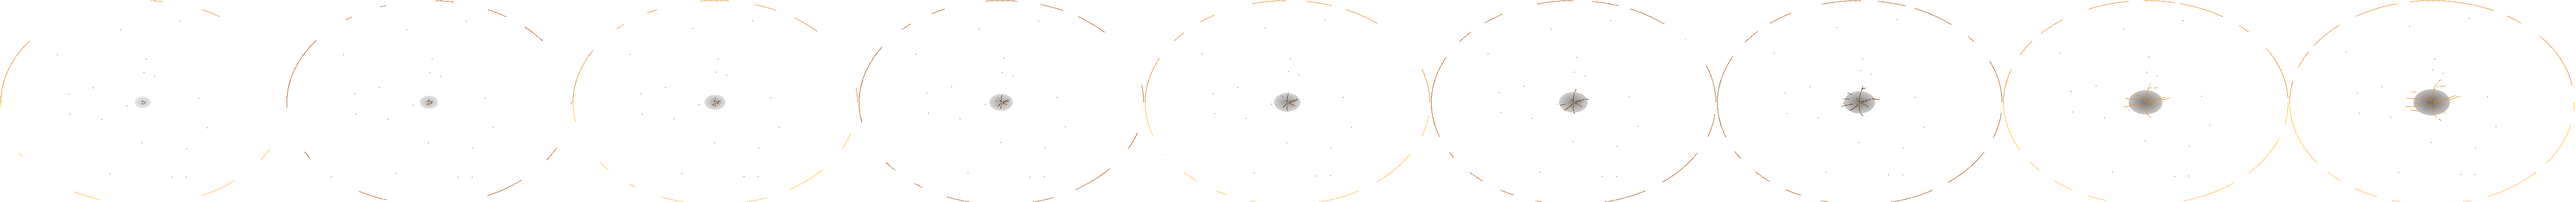
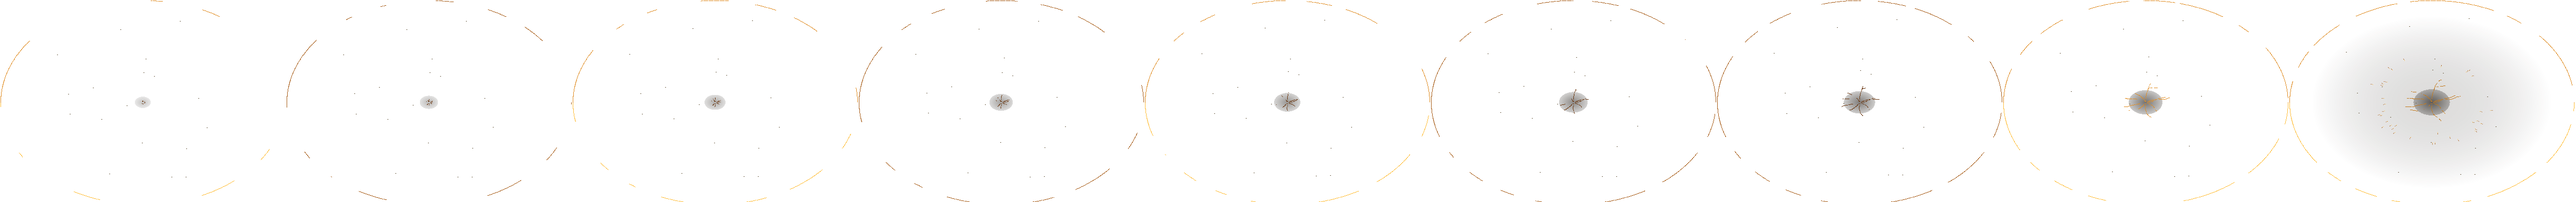
推进之王终结技按 ult_brief 调整：预备 2 拍、小星芒亮核、8 格厚冲击环 + 地面一闪、粒子云、地面块 / 尘墙按冲击环到达时刻起、怪物崩解（击杀碎屑 + 自身色像素喷散）；音效换成 Sonniss 录音（不用原作音源，gen_sfx siege() 改写，未 --apply）；隐形圆保住砸地音效触发；docs/264 §10

Changed region(s): [[0.902, 0.2805, 0.9953, 0.7481]]

diff --git a/tools/pixelfx_fx/melee/ak-siege-ult-pp.js b/tools/pixelfx_fx/melee/ak-siege-ult-pp.js
@@ -59,6 +59,22 @@ function warn(p, t, o, C, ACC, DU) {
     if (nz(f * 30 + x, +o.seed + 23) < 0.25) continue;
     p.px(Math.round(x), Math.round(y * SY), k > 0.7 && blink ? C[n - 4] : C[n - 6]);
   }
+  // 预备（落地前最后 2 拍，ult_brief §3）：判定圈内压暗 + 金色光点从 0.55–0.8 R 往中心吸，越近越亮
+  const pr = clamp((t - 0.467) / 0.133);
+  if (pr > 0) {
+    const rd = R * 0.85;
+    p.shade(-rd, -rd * SY, rd, rd * SY, (x, y, out) => {
+      const d = Math.hypot(x / rd, y / (rd * SY));
+      if (d > 1) return;
+      p.blend(x, y, DU[0], 0.3 * pr * (1 - d * d));
+    });
+    for (let i = 0; i < 36; i++) {
+      const a = TAU * nz(i * 1.9, +o.seed + 41), r0 = R * (0.55 + 0.25 * nz(i * 2.7, +o.seed + 43));
+      const r = r0 * (1 - 0.85 * pr), X = Math.cos(a) * r, Y = Math.sin(a) * r * SY - 4;
+      const c = pr > 0.6 ? (i % 3 === 0 ? WHITE : C[n - 2]) : C[n - 3];
+      for (let s2 = 0; s2 < 3; s2++) p.px(Math.round(X + Math.cos(a) * s2 * 2), Math.round(Y + Math.sin(a) * s2 * 2 * SY), s2 === 0 ? c : C[n - 5]);
+    }
+  }
   for (let i = 0; i < 18; i++) {
     const a = TAU * nz(i * 2.3, +o.seed + 25), r = R * (0.1 + 0.85 * nz(i * 3.1, +o.seed + 27));
     const ph = (t * 7.5 + nz(i, +o.seed + 29) * 3) % 1;
@@ -90,15 +106,82 @@ function charge(p, t, o, C, ACC) {
 }
 
 // ---------------------------------------------------------------- 砸落（立起层）
+// 冲击环到半径 r 的时刻（游戏秒）：同 smashGd 的 shock()，0.23 秒（3.5 拍）从 0.3 R 先快后慢推到 R
+function shockAt(R, r) {
+  const k = clamp((r / R - 0.3) / 0.7);
+  return 0.23 * (1 - Math.sqrt(1 - k));
+}
+
+// 亮核：中心一小团实心白芯 + 四长四短星芒，亮 2 拍（体量靠冲击环和粒子云撑，不画整块平涂的大圆 / 椭圆）
+function core(p, t, C, ACC) {
+  const n = C.length;
+  if (t >= 0.134) return;
+  const f2 = t >= 0.067, z = 8, r0 = f2 ? 7 : 10;
+  for (let y = -r0; y <= r0; y++) for (let x = -r0 * 1.6; x <= r0 * 1.6; x++) {
+    const d = Math.hypot(x / (r0 * 1.6), y / r0);
+    if (d > 1 || (d > 0.75 && ((Math.round(x) + y) & 1))) continue;
+    p.px(Math.round(x), Math.round(y - z), d < 0.5 ? WHITE : d < 0.8 ? ACC : C[n - 3]);
+  }
+  const L = f2 ? [34, 16] : [48, 22];
+  for (let q = 0; q < 8; q++) {
+    const a = q * Math.PI / 4 + 0.1, len = q % 2 ? L[1] : L[0];
+    for (let s2 = r0; s2 < len; s2++) {
+      const w = s2 < len * 0.5 ? 1 : 0;
+      for (let k = -w; k <= w; k++) p.px(Math.round(Math.cos(a) * s2 - Math.sin(a) * k), Math.round(Math.sin(a) * s2 * 0.72 + Math.cos(a) * k - z), s2 < len * 0.6 ? WHITE : C[n - 2]);
+    }
+  }
+}
+
+// 粒子云（ult_brief §5）：1–2 格的金白闪点，0.35 秒内往外炸开铺满 0.6 R 的圆，之后逐拍闪烁、往上漂、越剩越少，1.2 秒散完
+function cloud(p, t, o, C, ACC, R, N, sd, t0) {
+  const SY = +o.SY, n = C.length, u = t - (t0 || 0);
+  if (u <= 0 || u > 1.2) return;
+  const f = Math.floor(t * 15);
+  for (let i = 0; i < N; i++) {
+    const a = TAU * nz(i * 1.37, sd + 1), rr = R * Math.sqrt(nz(i * 2.11, sd + 3));
+    const g = ease.outCubic(clamp(u / 0.35)), r = rr * g;
+    const live = 1 - smooth(0.35, 1.2, u);
+    if (nz(i * 3.3, sd + 5) > live) continue;
+    if (u > 0.3 && ((i + f) % 3 === 0)) continue;                         // 闪烁：逐拍有一部分灭
+    const z = 4 + 30 * u * nz(i * 4.7, sd + 7);
+    const X = Math.round(Math.cos(a) * r), Y = Math.round(Math.sin(a) * r * SY - z);
+    const c = u < 0.134 ? WHITE : i % 5 === 0 ? ACC : i % 3 === 0 ? C[n - 2] : C[n - 3];
+    p.px(X, Y, c);
+    if (i % 3 === 0 && u < 0.6) p.px(X + 1, Y, c);
+  }
+}
+
+// 掀起的地面块：每块在冲击环推到它那一圈的时刻掀起（离中心越远越晚），实心块暗面 + 亮顶边，上抛落回
+function slabs(p, t, o, C, ST, R, N, sd) {
+  const SY = +o.SY, n = C.length;
+  for (let i = 0; i < N; i++) {
+    const a = TAU * nz(i * 2.3, sd + 11), rr = R * (0.2 + 0.75 * nz(i * 1.9, sd + 13));
+    const u = t - shockAt(R, rr);
+    if (u <= 0) continue;
+    const vy = 120 + 110 * nz(i * 3.7, sd + 15), vr = 20 + 40 * nz(i * 4.3, sd + 17);
+    const z = vy * u - 330 * u * u;
+    if (z < 0) continue;
+    const gx = Math.cos(a) * (rr + vr * u), gy = Math.sin(a) * (rr + vr * u) * SY;
+    const sz = 3 + Math.round(3 * nz(i * 6.1, sd + 19));
+    for (let dx = 0; dx < sz; dx++) for (let dy = 0; dy < sz - 1; dy++) {
+      let c = dy === 0 ? (u < 0.1 ? C[n - 3] : ST[4]) : dx === 0 ? ST[3] : ST[2];
+      p.px(Math.round(gx) + dx, Math.round(gy - z) + dy, c);
+    }
+    p.px(Math.round(gx), Math.round(gy) + 1, DU0);                       // 地上一点影子
+  }
+}
+let DU0 = 0;
+
 function smashUp(p, t, o, C, ACC, ST, DU) {
   const R = +o.R;
-  pillar(p, t, C, ACC, 120, 20, 2);
-  flash(p, t, C, 46, 15, 6, 0.0);
-  streaks(p, t, o, C, 26, 320, +o.seed + 41, 0.0, 160);
-  rubble(p, t, o, ST, DU, 30, R * 0.4, +o.seed + 43, 0.03, ACC);
-  rubble(p, t, o, ST, DU, 18, R * 0.75, +o.seed + 44, 0.09, null);
-  bigWall(p, t, o, C, DU, R * 0.95, 34, 30, +o.seed + 45, 0.05);   // 隆起尘墙：外圈（大团、往上冒、受光顶，散的时候整团缩掉）
-  bigWall(p, t, o, C, DU, R * 0.55, 22, 20, +o.seed + 46, 0.14);   // 内圈晚一拍
+  DU0 = DU[0];
+  pillar(p, t, C, ACC, 110, 12, 2);
+  core(p, t, C, ACC);
+  streaks(p, t, o, C, 20, 320, +o.seed + 41, 0.0, 160);
+  cloud(p, t, o, C, ACC, R * 0.6, 160, +o.seed + 47, 0.067);
+  slabs(p, t, o, C, ST, R, 24, +o.seed + 43);
+  bigWall(p, t, o, C, DU, R * 0.95, 34, 30, +o.seed + 45, shockAt(R, R * 0.95));   // 隆起尘墙：冲击环推到外圈那一刻冲起（大团、受光顶，散的时候整团缩掉）
+  bigWall(p, t, o, C, DU, R * 0.55, 22, 20, +o.seed + 46, shockAt(R, R * 0.55) + 0.067);   // 内圈
 }
 
 // 终结技尺度的尘墙：每团半径 5–8 美术像素，从地面隆起到 hMax 再缩掉；前半圈压在后半圈前面（按 y 先后画）
@@ -150,10 +233,30 @@ function beat(p, t, o, C, DU, r, t0, i) {
   }
 }
 
+function shock(p, t, o, C, ACC, DU, R) {
+  const SY = +o.SY, n = C.length;
+  if (t > 0.23 + 0.134) return;
+  const k = clamp(t / 0.23), r = R * (0.3 + 0.7 * (1 - (1 - k) * (1 - k)));
+  const fade = clamp((t - 0.23) / 0.134), TH = 8;
+  const m = Math.ceil(r * TAU * 1.1);
+  for (let j = 0; j < m; j++) {
+    const a = (j / m) * TAU, ca = Math.cos(a), sa = Math.sin(a);
+    if (fade > 0 && nz(a * 4.7, +o.seed + 71) < fade) continue;
+    const rr = r + 1.5 * nz(a * 6, +o.seed + 73);
+    for (let q = 0; q < TH; q += 0.5) {                                  // 厚环：外缘白 → 白金 → 金 → 暗金
+      const c = q < 2 ? (t < 0.134 ? WHITE : ACC) : q < 4 ? C[n - 2] : q < 6 ? C[n - 3] : C[n - 4];
+      p.px(Math.round(ca * (rr - q)), Math.round(sa * (rr - q) * SY), c);
+    }
+    if (fade < 0.5) for (let q = TH + 6; q < TH + 14; q += 1) {          // 环后 6–14 格的地面一闪（半透明）
+      p.blend(Math.round(ca * (rr - q)), Math.round(sa * (rr - q) * SY), C[n - 3], 0.28 * (1 - fade * 2));
+    }
+  }
+}
+
 function smashGd(p, t, o, C, ACC, DU) {
   const R = +o.R, SY = +o.SY;
   crater(p, t, o, DU, R * 0.14, SY, 0.85);
-  ring(p, t, o, C, R, SY, 0.0, 4);
+  shock(p, t, o, C, ACC, DU, R);
   drawCracks(p, t, o, C, ACC, DU, crackPaths(o, R * 0.95, 14, +o.seed + 61, undefined, undefined, 0.1), SY, true, 0.0);   // 长裂缝：弯曲度 0.1（裂地 v3：不规整、分叉，不绕圈）
   [0.3, 0.55, 0.8, 1.0].forEach((k, i) => beat(p, t, o, C, DU, R * k, 0.18 * i + 0.02, i));
 }

diff --git a/game/tools/gen_sfx_ult_seg_1030.py b/game/tools/gen_sfx_ult_seg_1030.py
@@ -478,16 +478,20 @@ def hoshiguma():
 
 
 def siege():
-    """docs/205 §4.7（用户 11-01「推进之王的终结技音效需要修改」；10-31 要「拿着锤子爆裂的感觉」、不要「咚」——那一声已查实是队友技能音效，放出期间静音）：
-    11-01 选定 ① 原作盾斧爆裂：提示 = 原作磁锤 → 起跳 = 原作跳劈起手 → 落地砸地 smash（fx circle r100，高潮）= 原作盾斧砸地榴弹爆裂 + 原作磁锤砸实瞬态 + 碎石
-    → 再跃小砸地 smash2 = 原作盾斧重击 → 碎岩 rock_1..3 = 原作碎盾 3 个音高 → 敌人落地 land = 原作盾斧收势。90 Hz 以下切，保留锤身的重量"""
+    """docs/205 §4.7 → docs/264 §10（11-05 终结技画面升级，ult_brief §7：不能用原作客户端里解出来的音源，原来的 sf / cast / smash / smash2 / rock / land 全是原作磁锤 / 盾斧，整套换掉）。
+    全部 Sonniss GDC 2026 录音（免版税、可商用，docs/113 §20）：
+    提示 sf = 金属重击共鸣降调 → 起跳 cast = 低音起跳 + 风声上扬 → 主砸 smash（fx circle r100，冲击帧那一下，全招最响）= 重击瞬态 + 预告片低频长尾（配合冲击慢放，1.9 秒）
+    + 碎屑呼啸 + 一层压低降调的巨兽吼（狮吼）→ 再跃第二下 smash2 = 挥击闷响 + 重击瞬态升调 → 余震碎岩 rock_1..3 = 冰裂三个音高 → 敌人落地 land = 挥击闷响降调 + 碎屑。
+    高频收着：主砸 6 kHz 以上低通、狮吼 1.5 kHz 低通；90 Hz 以下切掉（保留锤身重量）"""
+    roar = "344 Audio - Dinosaurs Vol. 2/ANMLRept_Large Herbivore Roar 01_344 Audio_Dinosaurs Vol 2.wav"
     return {
-        "sf": akd("p_skill_magnetichammer.wav", 0.0, 0.45, 1.0, fout=0.2), "cast": akd("p_skill_jumphammer_1.wav", 0.0, 0.7, fout=0.25),
-        "smash": hp(pad(akd("p_skill_MHshieldaxe_ground2.wav", 0.0, 1.35, fout=0.5), akd("p_skill_magnetichammer.wav", 0.0, 0.5, fout=0.2) * 0.6,
-                        sn("debris", 0.1, 1.0, fout=0.4) * 0.4), 90, 4),
-        "smash2": hp(akd("p_skill_MHshieldaxe_h2.wav", 0.0, 0.7, fout=0.25), 200),
-        **{"rock_%d" % (i + 1): hp(akd("p_skill_shieldbreak.wav", 0.0, 0.45, r, fout=0.2), 400) for i, r in enumerate([0.85, 0.95, 0.78])},
-        "land": hp(akd("p_skill_MHshieldaxe_end.wav", 0.0, 0.5, fout=0.2), 300),
+        "sf": hp(sn("ring", 0.0, 0.55, 0.8, fout=0.25), 120),
+        "cast": hp(pad(sn("jump", 0.0, 0.7, fout=0.25), sn("wind", 0.2, 0.6, 1.1, fout=0.25) * 0.45), 90),
+        "smash": hp(pad(lp(sn("smash", 0.0, 0.9, fout=0.4), 6000), lp(sn("b214", 0.25, 1.9, fout=0.9), 900) * 1.0,
+                        sn("debris", 0.1, 1.2, fout=0.5) * 0.35, at(lp(lib(roar, 0.15, 1.3, 0.82, fout=0.5), 1500) * 0.45, 0.06)), 90, 4),
+        "smash2": hp(pad(sn("thud", 0.0, 0.6, fout=0.25), lp(sn("smash", 0.0, 0.5, 1.15, fout=0.2), 6000) * 0.6), 120),
+        **{"rock_%d" % (i + 1): hp(sn("ice", 0.0, 0.4, r, fout=0.15), 400) for i, r in enumerate([0.85, 0.95, 0.78])},
+        "land": hp(pad(sn("thud", 0.0, 0.55, 0.88, fout=0.2), sn("debris", 0.3, 0.5, fout=0.25) * 0.3), 120),
     }
 
 

diff --git a/tools/pxplane_ult_gif.py b/tools/pxplane_ult_gif.py
@@ -127,6 +127,32 @@ def scene(lib, n_ticks):
                 img.alpha_composite(OP, dest=(int(round(x / 2) * 2), int(round(y / 2) * 2)))
             else:
                 paste_strip(img, lib, v[0], v[1], v[2], ed)
+        # 崩解（同 fx_pxplane._sg_draw_sprays）：冲击环推到那只怪的时刻，怪整只喷成自身颜色（offspring ecol 0.6,0.9,0.5）的像素
+        if tk >= t_hit:
+            age_g = (tk - t_hit) / 15.0
+            d2 = ImageDraw.Draw(img)
+            base_c = np.array([0.6, 0.9, 0.5]) * 255
+            cols = [tuple(int(min(255, v)) for v in (base_c + (255 - base_c) * 0.45)), tuple(int(min(255, v)) for v in (base_c + (255 - base_c) * 0.15)), tuple(int(v) for v in base_c), tuple(int(v * 0.7) for v in base_c)]
+            for ei, e in enumerate([e for e in ens if e[2]][:40]):
+                dist = math.hypot(e[0] - C[0], (e[1] - C[1]) / SY) / R
+                kk = min(1.0, max(0.0, (dist - 0.3) / 0.7))
+                age = age_g - 0.23 * (1 - math.sqrt(1 - kk))
+                if age < 0 or age > 1.3:
+                    continue
+                out_a = math.atan2(e[1] - C[1], e[0] - C[0])
+                hr = np.random.default_rng(ei * 13)
+                for q in range(22):
+                    ang = out_a + (hr.uniform() - 0.5) * 2.2
+                    spd, vh = 40 + 90 * hr.uniform(), 40 + 70 * hr.uniform()
+                    tl = 2 * vh / 300.0
+                    tt = min(min(age, 0.9), tl)
+                    hz = max(0.0, vh * tt - 150 * tt * tt)
+                    x = OX + e[0] * PX + math.cos(ang) * spd * tt
+                    y = OY + e[1] * PX - 10 + math.sin(ang) * spd * tt * 0.72 - hz
+                    c = (255, 255, 255) if (age < 2 / 15 and q % 3 == 0) else cols[q % 4]
+                    sz = PX * (2 if q % 3 != 2 else 1)
+                    x, y = round(x / 2) * 2, round(y / 2) * 2
+                    d2.rectangle([x, y, x + sz - 1, y + sz - 1], fill=c)
         if tk == t_fall:   # 落地：前 8 只各一小圈尘
             for e in [e for e in ens if e[2]][:8]:
                 fall_items.append(("sg_crash_gd", tk, (e[0], e[1])))

diff --git a/tools/pxplane_bake.py b/tools/pxplane_bake.py
@@ -286,7 +286,7 @@ def variants_siege_ult():
     return [
         ("ult_warn_gd", {"part": "warn", "layer": "gd", "R": 270, "seed": 31}, 0.6),
         ("ult_charge_up", {"part": "charge", "layer": "up", "seed": 33}, 0.6),
-        ("ult_smash_up", {"part": "smash", "layer": "up", "R": 270, "seed": 35}, 1.1),
+        ("ult_smash_up", {"part": "smash", "layer": "up", "R": 270, "seed": 35}, 1.3),
         ("ult_smash_gd", {"part": "smash", "layer": "gd", "R": 270, "seed": 35}, 1.5),
     ]
 
